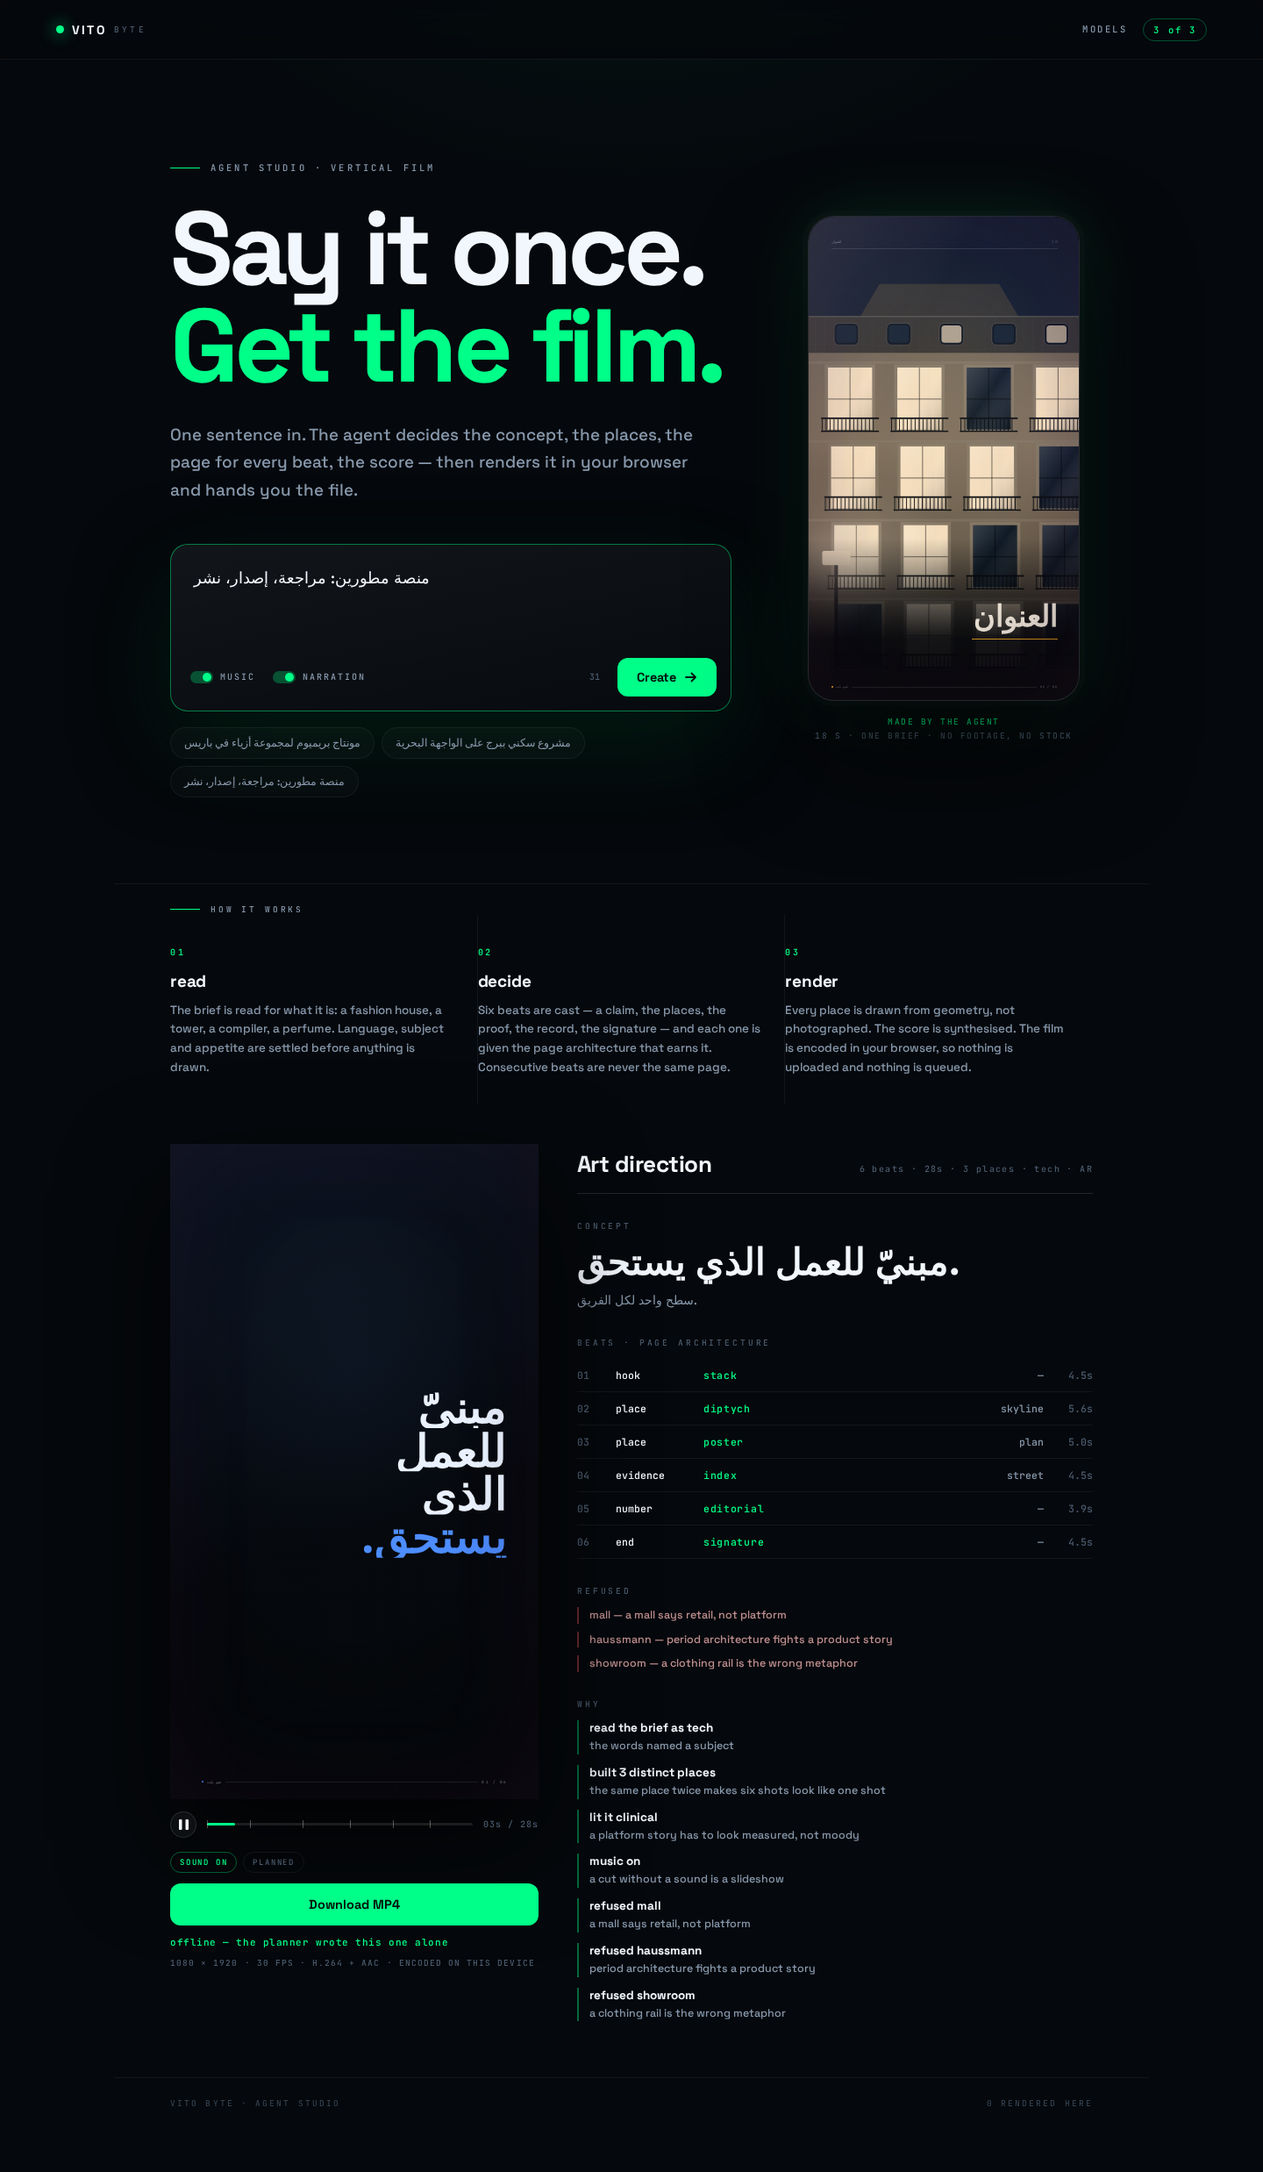
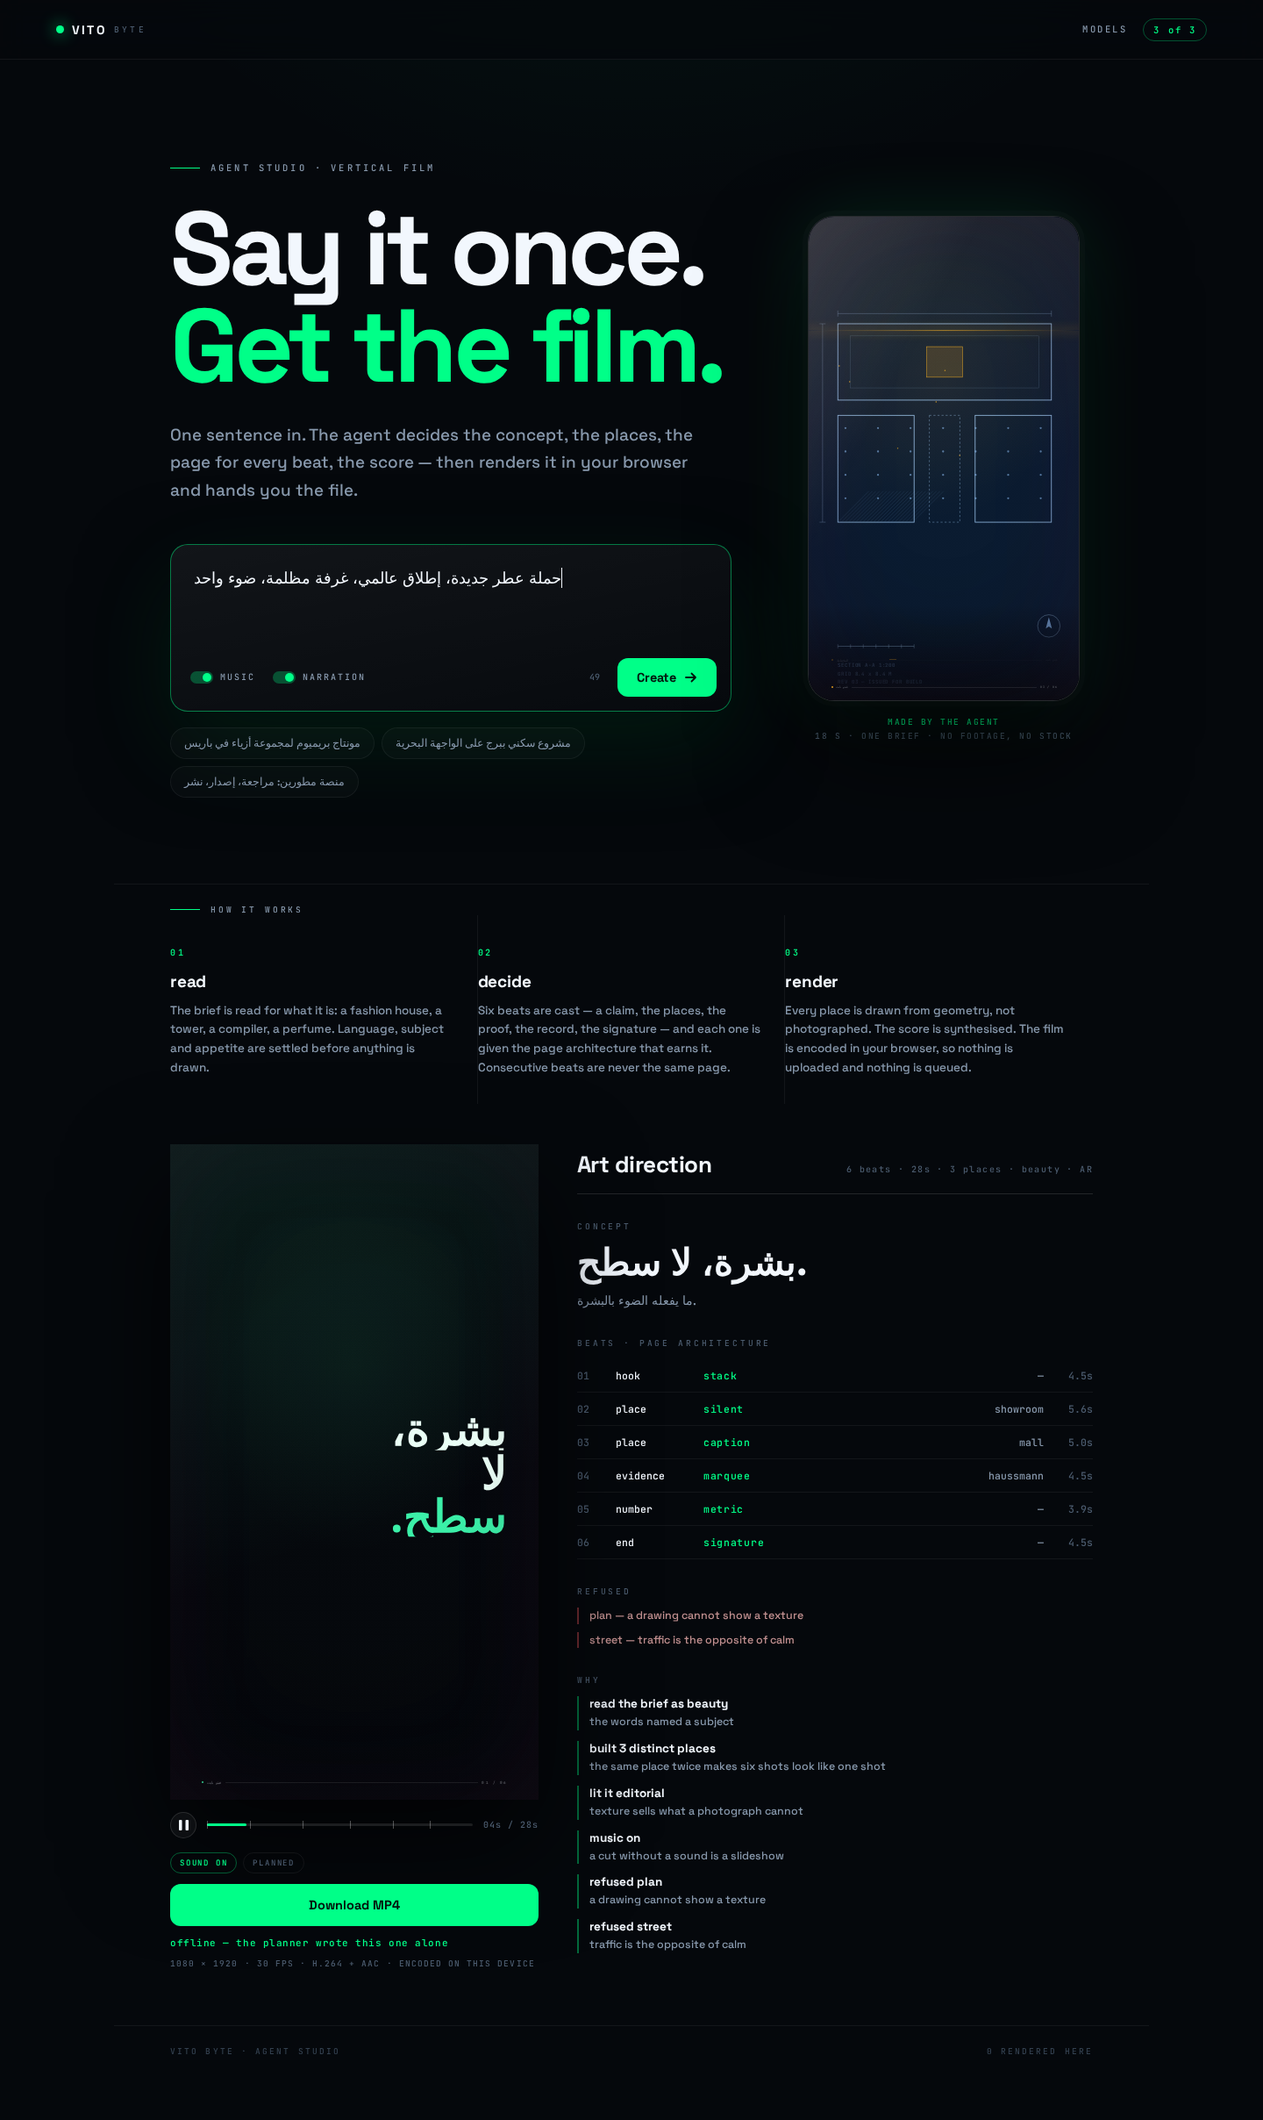
feat(art): grid as a storyboard, marquee that reads, metric that never invents a number
- grid: four whole frames at small scale, labelled, instead of four crops
- marquee: three travelling bands, one accent, copy still legible below
- metric: uses a figure only when the brief has one, otherwise states the line
- index: full page with a rail; editorial: the place behind it is visible
- vignette 0.42 -> 0.30, so the film survives a phone in daylight
- studio/film.sh: decision in, deliverable out

diff --git a/src/studio/art.tsx b/src/studio/art.tsx
@@ -168,7 +168,7 @@ const Editorial: React.FC<ArtProps & { index?: number }> = ({ beat, plan, f, tot
   return (
     <div style={{ position: "absolute", inset: 0, background: tok.bg }}>
       {/* the place, full bleed, pushed back so type sits in front of it */}
-      <div style={{ position: "absolute", inset: 0, opacity: 0.55 }}>
+      <div style={{ position: "absolute", inset: 0, opacity: 0.74 }}>
         <div style={{ position: "absolute", width: 1080, height: 1920, transform: `scale(${k})`, transformOrigin: "0 0" }}>
           <World spec={worldSpec({ ...beat, world: beat.world || "skyline" }, plan, f, total)} />
         </div>
@@ -252,7 +252,9 @@ const Index: React.FC<ArtProps> = ({ plan, f, k }) => {
         <span style={{ fontFamily: monoFam(rtl), fontSize: 13 * k, letterSpacing: rtl ? 0 : "0.34em", color: plan.accent, textTransform: "uppercase" }}>{rtl ? "المحتوى" : "contents"}</span>
         <span style={{ fontFamily: monoFam(rtl), fontSize: 12 * k, letterSpacing: rtl ? 0 : "0.2em", color: tok.faint }}>{rl(plan.beats.length, rtl)} {rtl ? "مشاهد" : "beats"}</span>
       </div>
-      <div style={{ position: "absolute", left: M * k, right: M * k, top: 300 * k }}>
+      {/* a rail down the page, so the list is a page and not a table */}
+      <div style={{ position: "absolute", left: M * k - 26 * k, top: 300 * k, bottom: 240 * k, width: 1, background: `linear-gradient(180deg, ${rgba(plan.accent, 0.5)}, rgba(255,255,255,0.06))` }} />
+      <div style={{ position: "absolute", left: M * k, right: M * k, top: 330 * k }}>
         {rows.map((b, i) => {
           const at = 8 + i * 7;
           const p = EASE.out((f - at) / 18);
@@ -264,14 +266,14 @@ const Index: React.FC<ArtProps> = ({ plan, f, k }) => {
                 display: "flex",
                 alignItems: "baseline",
                 gap: 20 * k,
-                padding: `${24 * k}px 0`,
+                padding: `${34 * k}px 0`,
                 borderBottom: `1px solid ${tok.hair2}`,
                 opacity: p,
                 transform: `translateY(${(1 - p) * 16 * k}px)`,
               }}
             >
               <span style={{ fontFamily: MONO, fontSize: 12 * k, color: tok.faint, width: 32 * k, flex: "0 0 32px" }}>{String(i + 1).padStart(2, "0")}</span>
-              <span style={{ fontFamily: fam(rtl), fontSize: 46 * k, lineHeight: 1.1, fontWeight: 600, color: last ? tok.dim : tok.ink, flex: 1, direction: rtl ? "rtl" : "ltr" }}>
+              <span style={{ fontFamily: fam(rtl), fontSize: 54 * k, lineHeight: 1.1, fontWeight: 600, color: last ? tok.dim : tok.ink, flex: 1, direction: rtl ? "rtl" : "ltr" }}>
                 {beatLabel(b, rtl)}
               </span>
               <span style={{ fontFamily: MONO, fontSize: 11 * k, letterSpacing: "0.14em", color: rgba(plan.accent, 0.65), textTransform: "uppercase", flex: "0 0 auto" }}>
@@ -320,30 +322,39 @@ const Stack: React.FC<ArtProps> = ({ plan, f, k, beat }) => {
   );
 };
 
-/** 06 — METRIC. A single figure, its unit, and the smallest possible label. */
-const Metric: React.FC<ArtProps> = ({ plan, f, k }) => {
+/** 06 — METRIC. A real figure, its unit, a hairline. Never an invented number. */
+const Metric: React.FC<ArtProps> = ({ beat, plan, f, k }) => {
   const tok = tokens(plan);
   const rtl = plan.language === "ar";
-  const v = rtl ? "٩٩.٩" : "99.9";
   const p = EASE.out((f - 6) / 24);
+
+  // a figure only appears if the brief actually contains one
+  const source = `${beat.line || ""} ${plan.headline} ${plan.sub} ${beat.caption || ""}`;
+  const found = source.match(/(\d[\d.,]*)\s*([%+×x]|[A-Za-z\u0600-\u06FF]{1,6})?/);
+  const figure = found ? found[1] : "";
+  const unit = found && found[2] ? found[2] : "";
+
   return (
     <div style={{ position: "absolute", inset: 0, background: tok.bg }}>
       <div style={{ position: "absolute", inset: 0, background: `radial-gradient(ellipse 70% 40% at 50% 60%, ${rgba(plan.accent, 0.1)}, rgba(0,0,0,0) 70%)` }} />
-      <div style={{ position: "absolute", left: M * k, right: M * k, top: 430 * k, opacity: p }}>
-        <div style={{ fontFamily: fam(rtl), fontSize: 340 * k, lineHeight: 0.86, fontWeight: 700, letterSpacing: "-0.06em", color: tok.ink, transform: `translateY(${(1 - p) * 30 * k}px)` }}>
-          {v}
-          <span style={{ fontSize: 96 * k, color: plan.accent, marginLeft: 12 * k }}>%</span>
-        </div>
+      <div style={{ position: "absolute", left: M * k, right: M * k, top: figure ? 430 * k : 520 * k, opacity: p }}>
+        {figure ? (
+          <div style={{ fontFamily: fam(rtl), fontSize: 320 * k, lineHeight: 0.86, fontWeight: 700, letterSpacing: "-0.05em", color: tok.ink, transform: `translateY(${(1 - p) * 30 * k}px)` }}>
+            {rl(Number(figure.replace(/[.,]/g, "")) || 0, rtl)}
+            <span style={{ fontFamily: fam(rtl), fontSize: 96 * k, color: plan.accent, marginLeft: 14 * k }}>{unit}</span>
+          </div>
+        ) : (
+          <div style={{ fontFamily: fam(rtl), fontSize: 112 * k, lineHeight: 1.1, fontWeight: 700, letterSpacing: rtl ? 0 : "-0.03em", color: tok.ink, direction: rtl ? "rtl" : "ltr", transform: `translateY(${(1 - p) * 30 * k}px)` }}>
+            {beat.line || plan.headline}
+          </div>
+        )}
         <div style={{ height: 1, background: tok.hair, marginTop: 40 * k, transform: `scaleX(${p})`, transformOrigin: "0 50%" }} />
-        <div style={{ display: "flex", justifyContent: "space-between", marginTop: 22 * k }}>
-          <span style={{ fontFamily: monoFam(rtl), fontSize: 15 * k, letterSpacing: rtl ? 0 : "0.28em", color: tok.dim, textTransform: "uppercase" }}>
-            {rtl ? "الاستقرار · ١٢ شهراً" : "uptime · twelve months"}
+        <div style={{ marginTop: 26 * k, display: "flex", alignItems: "center", gap: 14 * k }}>
+          <span style={{ width: 6 * k, height: 6 * k, borderRadius: 99, background: plan.accent }} />
+          <span style={{ fontFamily: monoFam(rtl), fontSize: 13 * k, letterSpacing: rtl ? 0 : "0.28em", textTransform: "uppercase", color: tok.dim }}>
+            {beat.caption || beatLabel(beat, rtl)}
           </span>
-          <span style={{ fontFamily: MONO, fontSize: 15 * k, color: tok.faint }}>2026</span>
         </div>
-      </div>
-      <div style={{ position: "absolute", left: M * k, bottom: 200 * k, fontFamily: fam(rtl), fontSize: 30 * k, color: tok.dim, direction: rtl ? "rtl" : "ltr", maxWidth: 700 * k, opacity: clamp((f - 20) / 20) }}>
-        {plan.sub}
       </div>
     </div>
   );
@@ -353,42 +364,62 @@ const Metric: React.FC<ArtProps> = ({ plan, f, k }) => {
 const Grid4: React.FC<ArtProps> = ({ beat, plan, f, total, k }) => {
   const tok = tokens(plan);
   const rtl = plan.language === "ar";
-  const cells = [0, 1, 2, 3];
+  const worlds = ["haussmann", "street", "skyline", "showroom"] as const;
+  const GAP = 20;
+  const cw = (1080 - M * 2 - GAP) / 2;
+  const ch = (1920 - 180 - GAP - 220) / 2;
+  // four crops, not four copies: each cell looks at its place differently
+  // four whole frames, shrunk — a storyboard, not four copies of one shot
+  const crop = { s: cw / 1080, y: 0 };
   return (
     <div style={{ position: "absolute", inset: 0, background: tok.bg }}>
-      {cells.map((i) => {
+      <div style={{ position: "absolute", left: M * k, top: 96 * k, right: M * k, display: "flex", alignItems: "baseline", justifyContent: "space-between" }}>
+        <span style={{ fontFamily: fam(rtl), fontSize: 26 * k, fontWeight: 600, color: tok.ink, direction: rtl ? "rtl" : "ltr" }}>{beat.caption || beatLabel(beat, rtl)}</span>
+        <span style={{ fontFamily: MONO, fontSize: 11 * k, letterSpacing: "0.24em", color: tok.faint }}>{rl(4, rtl)} {rtl ? "لقطات" : "cuts"}</span>
+      </div>
+      {worlds.map((w, i) => {
         const col = i % 2;
         const row = Math.floor(i / 2);
-        const p = EASE.out((f - 6 - i * 5) / 20);
-        const cw = (1080 - M * 2 - 24) / 2;
-        const ch = 560;
+        const p = EASE.out((f - 3 - i * 3) / 16);
         return (
           <div
             key={i}
             style={{
               position: "absolute",
-              left: (M + col * (cw + 24)) * k,
-              top: (250 + row * (ch + 24)) * k,
+              left: (M + col * (cw + GAP)) * k,
+              top: (180 + row * (ch + GAP)) * k,
               width: cw * k,
               height: ch * k,
               overflow: "hidden",
-              borderRadius: 4 * k,
               opacity: p,
-              transform: `translateY(${(1 - p) * 18 * k}px)`,
+              transform: `translateY(${(1 - p) * 20 * k}px) scale(${1.02 - 0.02 * p})`,
             }}
           >
-            <div style={{ position: "absolute", width: 1080, height: 1920, transform: `scale(${(cw * k) / 1080})`, transformOrigin: "0 0" }}>
-              <World spec={worldSpec({ ...beat, world: (["haussmann", "street", "skyline", "showroom"] as const)[i] }, plan, f + i * 12, total)} />
+            <div
+              style={{
+                position: "absolute",
+                width: 1080,
+                height: 1920,
+                transform: `scale(${crop.s * k})`,
+                transformOrigin: "0 0",
+                top: -crop.y * k,
+                filter: "brightness(1.16) contrast(1.04)",
+              }}
+            >
+              <World spec={worldSpec({ ...beat, world: w }, plan, f + i * 6, total)} />
             </div>
-            <div style={{ position: "absolute", inset: 0, background: "linear-gradient(180deg, rgba(0,0,0,0) 40%, rgba(4,7,11,0.88))" }} />
-            <div style={{ position: "absolute", left: 18 * k, bottom: 16 * k, fontFamily: monoFam(rtl), fontSize: 12 * k, letterSpacing: rtl ? 0 : "0.24em", color: tok.dim, textTransform: "uppercase" }}>
-              {String(i + 1).padStart(2, "0")} · {(["facade", "avenue", "skyline", "rail"] as const)[i]}
-            </div>
+            <div style={{ position: "absolute", inset: 0, background: "linear-gradient(180deg, rgba(4,7,11,0) 62%, rgba(4,7,11,0.78))" }} />
+            <span style={{ position: "absolute", left: 14 * k, bottom: 12 * k, fontFamily: MONO, fontSize: 10 * k, letterSpacing: "0.22em", color: "rgba(238,244,251,0.55)" }}>
+              {String(i + 1).padStart(2, "0")} · {w}
+            </span>
           </div>
         );
       })}
-      <div style={{ position: "absolute", left: M * k, right: M * k, top: 170 * k, fontFamily: fam(rtl), fontSize: 44 * k, fontWeight: 700, color: tok.ink, direction: rtl ? "rtl" : "ltr", opacity: clamp(f / 16) }}>
-        {beat.caption || plan.sub}
+      <div style={{ position: "absolute", left: M * k, right: M * k, bottom: 150 * k }}>
+        <div style={{ height: 1, background: tok.hair2, marginBottom: 22 * k }} />
+        <span style={{ fontFamily: fam(rtl), fontSize: 34 * k, lineHeight: 1.5, color: tok.dim, direction: rtl ? "rtl" : "ltr" }}>
+          {beat.line || plan.sub}
+        </span>
       </div>
     </div>
   );
@@ -494,18 +525,40 @@ const Caption: React.FC<ArtProps> = ({ beat, plan, f, total, k }) => {
 const Marquee: React.FC<ArtProps> = ({ plan, f, k, beat }) => {
   const tok = tokens(plan);
   const rtl = plan.language === "ar";
-  const line = (beat.caption || plan.sub).toUpperCase();
-  const shift = (f * 2.4) % 360;
+  const word = (beat.caption || plan.kicker || plan.sub).toUpperCase();
+  const row = (rev: boolean, size: number, tone: string, speed: number, glyph: string) => {
+    const travel = (f * speed) % 100;
+    const strip = Array.from({ length: 6 }, () => word).join(glyph);
+    return (
+      <div
+        style={{
+          whiteSpace: "nowrap",
+          fontFamily: fam(rtl),
+          fontSize: size * k,
+          fontWeight: 700,
+          letterSpacing: rtl ? 0 : "-0.03em",
+          color: tone,
+          transform: `translateX(${(rev ? travel : -travel) * 12}px)`,
+          direction: rtl ? "rtl" : "ltr",
+        }}
+      >
+        {strip}
+      </div>
+    );
+  };
   return (
     <div style={{ position: "absolute", inset: 0, background: tok.bg, overflow: "hidden" }}>
-      <div style={{ position: "absolute", top: 780 * k, left: -shift * k, whiteSpace: "nowrap", fontFamily: fam(rtl), fontSize: 120 * k, fontWeight: 700, letterSpacing: rtl ? 0 : "-0.04em", color: "rgba(238,244,251,0.1)" }}>
-        {line} · {line} · {line}
+      <div style={{ position: "absolute", inset: 0, background: `linear-gradient(180deg, rgba(5,8,12,0.9), rgba(5,8,12,0) 30%, rgba(5,8,12,0) 70%, rgba(5,8,12,0.92))`, zIndex: 2 }} />
+      <div style={{ position: "absolute", top: 660 * k, left: 0, right: 0, display: "grid", gap: 10 * k }}>
+        {row(false, 118, rgba(tok.ink, 0.13), 2.6, " · ")}
+        {row(true, 118, plan.accent, 3.4, " · ")}
+        {row(false, 118, rgba(tok.ink, 0.13), 2.0, " · ")}
       </div>
-      <div style={{ position: "absolute", top: 940 * k, left: shift * k - 400 * k, whiteSpace: "nowrap", fontFamily: fam(rtl), fontSize: 120 * k, fontWeight: 700, letterSpacing: rtl ? 0 : "-0.04em", color: rgba(plan.accent, 0.85) }}>
-        {line}
-      </div>
-      <div style={{ position: "absolute", left: M * k, bottom: 220 * k, fontFamily: fam(rtl), fontSize: 34 * k, color: tok.dim, direction: rtl ? "rtl" : "ltr", maxWidth: 620 * k }}>
-        {plan.headline.replace(/\n/g, " ")}
+      <div style={{ position: "absolute", left: M * k, right: M * k, bottom: 250 * k, zIndex: 3, direction: rtl ? "rtl" : "ltr" }}>
+        <div style={{ width: 64 * k, height: 3, background: plan.accent, marginBottom: 24 * k }} />
+        <div style={{ fontFamily: fam(rtl), fontSize: 54 * k, lineHeight: 1.16, fontWeight: 600, color: tok.ink }}>
+          {beat.line || plan.headline.replace(/\n/g, " ")}
+        </div>
       </div>
     </div>
   );
@@ -563,7 +616,7 @@ const CAST: Record<Beat["kind"], ArchId[]> = {
   place: ["silent", "caption", "diptych", "poster"],
   evidence: ["grid", "index", "marquee"],
   detail: ["diptych", "caption"],
-  number: ["metric", "editorial"],
+  number: ["stack", "metric"],
   end: ["signature"],
 };
 
@@ -672,7 +725,7 @@ export const FilmFrame: React.FC<{ plan: Decision; frame: number; w: number; h: 
         }}
       />
 
-      <Grade f={frame} accent={plan.accent} amount={0.5} vignette={0.42} />
+      <Grade f={frame} accent={plan.accent} amount={0.5} vignette={0.3} />
 
       {/* the rail: pagination, always on, always quiet */}
       <div style={{ position: "absolute", left: M * k, right: M * k, bottom: 44 * k, display: "flex", alignItems: "center", gap: 12 * k, opacity: 0.85 }}>

diff --git a/DESIGN.md b/DESIGN.md
@@ -67,3 +67,46 @@ is B, C, I flat and the swarm trilogy as the only 3D.
 - A whip on every cut. It stops reading as speed and starts reading as a fault.
 - HUD rails on every frame — decoration pretending to be information.
 - 3D on a logotype. A wordmark is flat by definition; extruding it is a fad.
+
+## The eleven pages
+
+Every beat is drawn by one of eleven page architectures. The set is the product:
+it is why two briefs never produce the same film, and why a beat that has
+nothing to say can be given a page that says nothing on purpose.
+
+| id | the page | it is for | it never does |
+|---|---|---|---|
+| `poster` | one place, full bleed, type in the lower third | a place that needs stating | carry two ideas |
+| `editorial` | the place behind an oversized index numeral, copy in a column | the argument of the film | use the numeral as decoration |
+| `silent` | no copy at all, one mark, one travelling hairline | a place that can hold a frame alone | fill the silence |
+| `index` | a contents page listing the film's own chapters | proof, abundance, a record | repeat a chapter name |
+| `stack` | one word per line at 132 px, clipped reveal | a declaration | be subtle |
+| `metric` | a 340 px figure, its unit, one hairline | a number that matters | show a number that does not |
+| `grid` | four micro-scenes at once | evidence by quantity | show the same frame twice |
+| `diptych` | place above, colour field below holding the line | a considered statement | echo `silent` |
+| `caption` | broadcast lower third with a timecode | reportage, a place with a story | pretend to be editorial |
+| `marquee` | type crossing the frame | momentum, an ending in motion | be readable in one glance |
+| `signature` | the closing card | the last four seconds | ever move |
+
+Casting rules:
+
+- the hook is `stack`, `poster` or `editorial`;
+- a place is `silent`, `caption`, `diptych` or `poster`;
+- evidence is `grid`, `index` or `marquee`;
+- a number is `metric` (a figure with no page is a missed beat);
+- the end is always `signature`.
+
+Two consecutive beats are never the same page, and a page chosen by the
+director is checked against the same rule before it is honoured.
+
+## Typography and colour in the pages
+
+- One scale with real jumps: 118 / 92 / 64 / 46 / 28 / 13 px at 1080 wide.
+  Nothing in between; intermediate sizes are what makes a layout look amateur.
+- Numerals are `rl()`-converted in Arabic films, so a figure and its label are
+  written in one script.
+- Colour is a key, chosen once per film (green, blue, amber, violet, ice), then
+  the beats alternate temperature: odd beats take the accent, even beats take
+  `#2E63FF` at 11% in `screen`. The palette breathes instead of repeating.
+- Grain is 0.019, never on every cut. A vignette is 0.42. Nothing else is added
+  for texture; the geometry is the texture.
